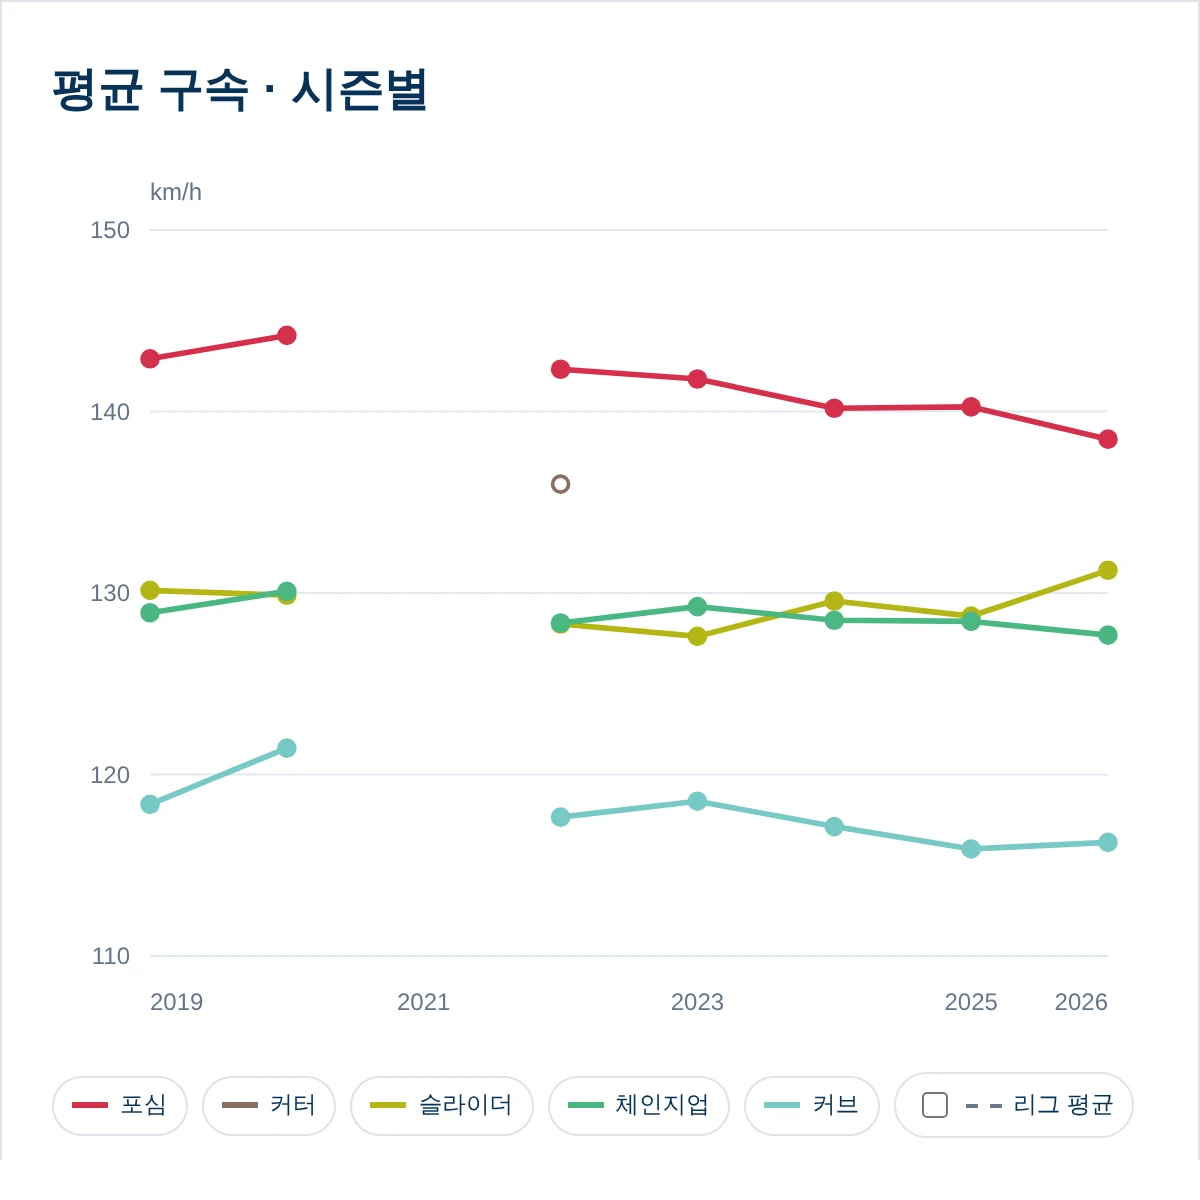
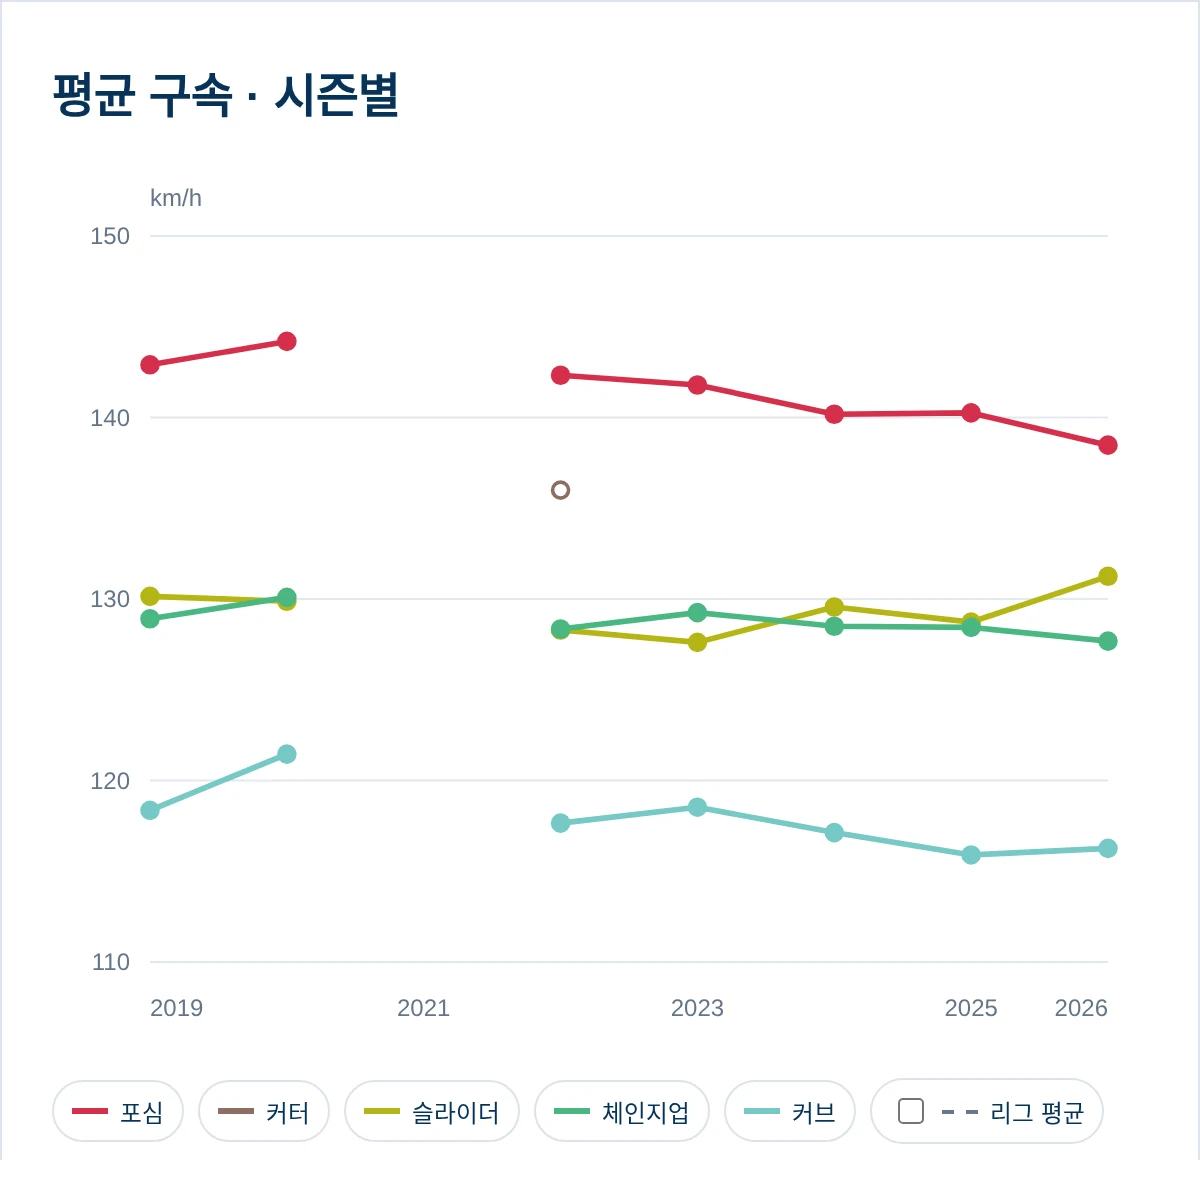
웹: Trendline 구속 기본 집계를 경기별 원값으로 변경
- 구속 위젯 생성·지표 전환은 경기별 원값, 다른 지표는 최근 5경기 기본값 적용
- 제목에 원값·최근 5·10경기 평균을 구분하고 설명·썸네일 갱신
- 전체 테스트 305개와 1440px·390px 브라우저 검증 통과

diff --git a/web/trendline/trendline.js b/web/trendline/trendline.js
@@ -14,8 +14,10 @@ function getJSON(path) {
   return cache.get(path);
 }
 function defaultPitch(metric) { return ["velocity","usage"].includes(metric) || M.METRICS[metric].byType?"split":"all"; }
+function defaultWindow(metric) { return metric==="velocity"?1:5; }
 function leagueDefault(metric,pitch) { return pitch!=="split" && !M.METRICS[metric].noLeague; }
-function widget(metric) { const pitch=defaultPitch(metric); return {id:state.nextId++,metric,pitch,window:5,league:leagueDefault(metric,pitch),hidden:new Set()}; }
+function widget(metric) { const pitch=defaultPitch(metric); return {id:state.nextId++,metric,pitch,window:defaultWindow(metric),league:leagueDefault(metric,pitch),hidden:new Set()}; }
+function aggregationLabel(w,mode) { return mode==="season"?"시즌별":mode==="month"?"월별":w.window===1?"경기별 원값":`최근 ${w.window}경기 평균`; }
 function setStatus(text,info=false) { $("#status").textContent=text;$("#status").classList.toggle("is-info",info); }
 function availableMetrics() { return Object.entries(M.METRICS).filter(([,spec])=>spec.roles.includes(state.role)); }
 function format(value,unit="%") { return value == null ? "—" : `${value.toFixed(1)}${unit==="%"?"%":` ${unit}`}`; }
@@ -76,7 +78,7 @@ function cardMarkup(w) {
   const metrics=availableMetrics().map(([key,s])=>`<option value="${key}" ${key===w.metric?"selected":""}>${s.label}</option>`).join("");
   const pitches=[...(spec.overall?[["all","전체 타석"]]:spec.byType?[["split","구종별 선"]]:[["all","전체 구종"],["split","구종별 선"]]),...(!spec.overall?pitchCodes().map(code=>[code,state.catalog.pitch_names[code]]):[])];
   return `<article class="trend-card" data-id="${w.id}" ${params.get("thumb")==="1" && w===state.widgets[0]?"data-thumbnail-target":""}>
-    <div class="trend-card-heading"><h3>${spec.label} <span class="trend-card-period">${mode==="season"?"· 시즌별":mode==="month"?"· 월별":"· 경기별"}</span><span class="trend-card-latest"></span></h3><button type="button" class="trend-remove" aria-label="${spec.label} 위젯 삭제">×</button></div>
+    <div class="trend-card-heading"><h3>${spec.label} <span class="trend-card-period">· ${aggregationLabel(w,mode)}</span><span class="trend-card-latest"></span></h3><button type="button" class="trend-remove" aria-label="${spec.label} 위젯 삭제">×</button></div>
     <div class="trend-options"><label>지표<select data-setting="metric" aria-label="지표">${metrics}</select></label>
     <label>구종<select data-setting="pitch" aria-label="구종" ${spec.overall?"disabled":""}>${pitches.map(([code,label])=>`<option value="${code}" ${code===w.pitch?"selected":""}>${label}</option>`).join("")}</select></label>
     <label>집계<select data-setting="window" aria-label="집계" ${mode!=="game"?"disabled":""}>${mode!=="game"?`<option>${mode==="season"?"시즌 합산":"월 합산"}</option>`:`<option value="1" ${w.window===1?"selected":""}>경기별 원값</option><option value="5" ${w.window===5?"selected":""}>최근 5경기</option><option value="10" ${w.window===10?"selected":""}>최근 10경기</option>`}</select></label></div>
@@ -87,7 +89,7 @@ function renderWidgets() {
   if(!state.selected) return;
   const {start,end,mode}=bounds();
   if(!start || !end || start>end) { $("#period-note").textContent="시작일이 종료일보다 늦습니다. 기간을 확인해 주세요.";$("#widgets").innerHTML="";state.models=[];return; }
-  $("#period-note").textContent=`${niceDate(start)}–${niceDate(end)} · ${mode==="season"?"시즌 합산":mode==="month"?"월 합산":"출전 경기 기준 이동평균 · 시즌 경계에서 초기화"} · 모든 위젯의 기간과 커서를 함께 표시합니다.`;
+  $("#period-note").textContent=`${niceDate(start)}–${niceDate(end)} · ${mode==="season"?"시즌 합산":mode==="month"?"월 합산":"출전 경기 기준 · 집계는 위젯에서 선택 · 시즌 경계에서 초기화"} · 모든 위젯의 기간과 커서를 함께 표시합니다.`;
   resize.disconnect();$("#widgets").innerHTML=state.widgets.map(cardMarkup).join("") || '<p class="trend-empty">위젯을 추가해 지표를 선택하세요.</p>';
   $("#add-widget").disabled=state.widgets.length>=6;
   for(const card of document.querySelectorAll(".trend-card")) {
@@ -95,7 +97,7 @@ function renderWidgets() {
     card.querySelector(".trend-remove").addEventListener("click",()=>{state.widgets=state.widgets.filter(v=>v.id!==w.id);renderWidgets();});
     card.querySelectorAll("[data-setting]").forEach(select=>select.addEventListener("change",()=>{
       const key=select.dataset.setting;
-      if(key==="metric") { w.metric=select.value;w.pitch=defaultPitch(w.metric);w.league=leagueDefault(w.metric,w.pitch);w.hidden.clear(); }
+      if(key==="metric") { w.metric=select.value;w.pitch=defaultPitch(w.metric);w.window=defaultWindow(w.metric);w.league=leagueDefault(w.metric,w.pitch);w.hidden.clear(); }
       else if(key==="window") w.window=Number(select.value);
       else { w.pitch=select.value;w.hidden.clear(); }
       renderWidgets();

diff --git a/web/trendline/index.html b/web/trendline/index.html
@@ -38,13 +38,13 @@
       <div id="widgets" class="trend-grid"></div>
     </section>
     <section class="method-card"><h2>What is this?</h2>
-      <p>선수의 시즌·월·경기별 변화를 KBO 정규시즌 기록으로 살펴봅니다. 경기별 이동평균은 최근 5·10번의 출전 경기에서 분자와 분모를 합산하며, 시즌이 바뀌면 다시 시작합니다. 선이 하나일 때 뒤의 연한 점은 이동평균 없이 본 경기별 원값입니다. 축은 원값의 5–95% 범위까지 넓히며, 그 밖의 극단값 점은 생략합니다. 빈 원은 작은 표본, 끊어진 선은 계산할 기록이 없는 구간입니다.</p>
+      <p>선수의 시즌·월·경기별 변화를 KBO 정규시즌 기록으로 살펴봅니다. 경기별 보기에서 평균 구속은 경기별 원값, 다른 지표는 최근 5경기를 기본으로 표시합니다. 지표를 바꾸면 해당 지표의 기본 집계로 전환됩니다. 집계 선택에서 경기별 원값·최근 5·10경기를 바꿀 수 있고, 제목에도 선택한 집계를 표시합니다. 이동평균은 출전 경기의 분자와 분모를 합산하며, 시즌이 바뀌면 다시 시작합니다. 선이 하나일 때 뒤의 연한 점은 이동평균 없이 본 경기별 원값입니다. 축은 원값의 5–95% 범위까지 넓히며, 그 밖의 극단값 점은 생략합니다. 빈 원은 작은 표본, 끊어진 선은 계산할 기록이 없는 구간입니다.</p>
       <p>Swing%는 확인된 투구 중 스윙 비율, O-Swing%·Z-Swing%는 위치와 스윙을 확인한 존 밖·안 투구의 스윙 비율입니다. 존은 투구별 상하 경계와 좌우 ±10/12 ft를 사용합니다. Whiff%는 스윙 중 헛스윙, SwStr%는 전체 유효 투구 중 헛스윙 비율입니다. K%·BB%는 결과를 확인한 완료 타석 기준이며, 볼넷에 사구를 포함하지 않습니다. 미확인 타석 수는 차트 아래에 표시합니다.</p>
       <p>존 관련 지표는 시즌별 판정 제도와 좌표 측정 기준 변화의 영향을 받을 수 있습니다. 현재 시즌은 기준일까지의 기록입니다.</p>
       <p>점선은 선택한 기간 안에서 시즌별로 합산한 같은 구종의 리그 평균이며, 시즌마다 수평선 하나로 그립니다. 시즌을 섞지 않으므로 여러 시즌을 보면 시즌마다 높이가 다릅니다. 툴팁과 제목의 리그 대비 차이도 이 값과 비교합니다. 리그 평균에는 선택한 선수도 포함합니다. 기록은 PBP 재집계이며 공식 합계와 차이가 날 수 있습니다. 미확인은 0으로 처리하지 않습니다.</p>
     </section>
   </main>
   <script src="trendline-math.js?v=20261009-2"></script>
-  <script src="trendline.js?v=20261009-2"></script>
+  <script src="trendline.js?v=20261009-3"></script>
 </body>
 </html>

diff --git a/web/index.html b/web/index.html
@@ -43,7 +43,7 @@
           <div class="visual-card__body"><h3>Conditional Finder</h3><p>기억하는 투구·타격 조건으로 경기와 타석 찾기</p><b>열기 →</b></div>
         </a>
         <a class="visual-card" href="trendline/">
-          <div class="visual-art" aria-hidden="true"><img src="assets/thumbnails/trendline.webp?v=20261008-3" alt=""></div>
+          <div class="visual-art" aria-hidden="true"><img src="assets/thumbnails/trendline.webp?v=20261009-1" alt=""></div>
           <div class="visual-card__body"><h3>Trendline</h3><p>선수의 시즌별 변화와 경기별 추세를 리그 평균과 함께 확인합니다.</p><b>열기 →</b></div>
         </a>
       </div>

diff --git a/analysis/trendline/README.md b/analysis/trendline/README.md
@@ -29,6 +29,7 @@ Visual Baseball 원본은 2019년 3–5월을 중심으로 삼진 2,623타석의
 
 - 시즌·월별: 선택한 날짜 구간 안의 해당 시즌·월 기록을 합산한다. 기록이 없는 시즌·월은 null이며 선을 끊는다.
 - 경기별: 해당 선수의 최근 1·5·10번 출전 경기에서 분자·분모를 합산한다. 시작 구간의 표본이 적어도 확인된 값을 표시한다. 선택한 기간 밖의 경기는 포함하지 않고 시즌 경계에서 초기화한다. 더블헤더는 경기 ID가 다른 두 경기로 센다.
+- 경기별 보기의 기본 집계는 평균 구속이 경기별 원값, 다른 지표가 최근 5경기다. 위젯을 추가하거나 지표를 바꾸면 해당 지표의 기본 집계를 적용한다. 사용자는 경기별 원값·최근 5·10경기를 선택할 수 있으며, 제목에도 실제 집계를 표시한다. 시즌·월별 보기는 해당 기간 합산을 유지한다.
 - 리그: 선택한 날짜 구간을 시즌별로 잘라 그 시즌의 리그 전체 투구·타석을 합산한 값 하나를 수평선으로 그린다(시즌을 섞지 않으므로 여러 시즌이면 시즌마다 한 선분). 시즌·월·경기별 점과 툴팁·제목의 리그 대비 차이도 이 시즌 값과 비교한다. 리그 경기를 N개 고르거나 선수별 비율을 평균내지 않는다. 선택한 선수도 리그에 포함한다.
 - 구종별 지표는 동일 구종의 리그 기록을 사용한다. 사용률 분모는 선수·리그 각각 전체 구종이다. K%·BB%는 구종 필터를 제공하지 않는다.
 - 리그 평균 점선은 선이 하나인 위젯에서 기본으로 켜고, 구종별 여러 선에서는 끈 채 시작한다. 값 차이는 비율의 경우 %p, 구속은 km/h, 무브먼트는 in이다.

diff --git a/docs/decisions/0023-trendline-velocity-default.md b/docs/decisions/0023-trendline-velocity-default.md
@@ -1,0 +1,24 @@
+# 0023 — Trendline 구속은 경기별 원값을 기본으로 표시
+
+**상태: 채택**
+
+## 맥락
+
+전준표의 2026-07-28 포심 평균은 단일 경기 72구에서 153.0km/h, 최근 10경기 224구에서 151.8km/h였다. 이동평균 제목에 경기별이라고만 표시하면 특정 날짜의 단일 경기 구속으로 읽기 쉽다. 해당 최근 10경기는 3월 31일–7월 28일에 걸쳐 당일 상태와 오래전 등판이 섞였다.
+
+## 결정
+
+- 경기별 보기에서 평균 구속은 경기별 원값을 기본으로 한다. 다른 지표는 기존 최근 5경기 기본값을 유지한다.
+- 위젯 추가와 지표 변경에 같은 기본값을 적용한다. 구종이나 보기 변경은 선택한 집계를 유지한다.
+- 제목에는 경기별 원값·최근 5경기 평균·최근 10경기 평균을 구분해 표시한다. 시즌·월별 제목과 기간 합산은 유지한다.
+- 사용자는 기존 집계 선택으로 이동평균을 선택할 수 있다. 구속의 원자료·수식은 변경하지 않는다.
+
+## 기각한 대안
+
+- 모든 지표를 경기별 원값으로 변경: K%·BB% 같은 비율의 적은 경기 표본까지 기본으로 노출한다.
+- 구속의 이동평균 선택을 제거: 장기간 추세를 확인할 선택지가 사라진다.
+- 날짜만 붙인 경기별 제목 유지: 이동평균을 당일 원값으로 읽는 혼동이 남는다.
+
+## 결과
+
+1440px·390px 브라우저에서 기본 집계, 5·10경기 선택과 제목, 지표 전환, 위젯 추가, 시즌·월별 보기, 가로 넘침을 확인한다. 전준표 사례의 72구/153.0과 224구/151.8을 실제 화면에서 대조한다.

diff --git a/docs/decisions/README.md b/docs/decisions/README.md
@@ -41,6 +41,7 @@
 | [0021](0021-conditional-finder.md) | Conditional Finder 투구 단위 검색·날짜 파일·영상 연결 | 웹·데이터 |
 
 | [0022](0022-trendline-league-baselines.md) | Trendline과 동일 기간·구종 리그 평균 비교 | 지표·웹 |
+| [0023](0023-trendline-velocity-default.md) | Trendline 구속은 경기별 원값을 기본으로 표시 | 웹 |
 
 ### 다른 곳에 있는 결정·근거
 
